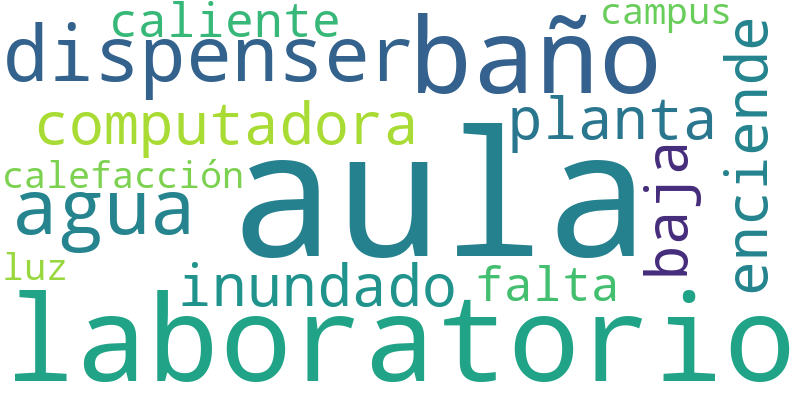
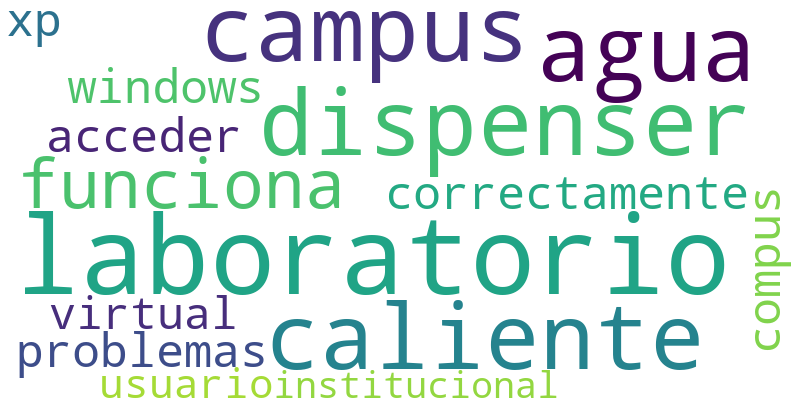
agrego chequeo de nombre de usuario al registrarse || trabajo final aprobado

diff --git a/TrabajoPractico_3/data/reporte_todos.html b/TrabajoPractico_3/data/reporte_todos.html
@@ -1,27 +1,9 @@
 <!DOCTYPE html><html lang='es'><head><meta charset='UTF-8'><title>Reporte</title><style>
-        body {
-            font-family: 'Segoe UI', sans-serif;
-            background-color: #f5f7fa;
-            color: #2c3e50;
-            padding: 40px;
-            display: flex;
-            flex-direction: column;
-            align-items: center;
-            justify-content: center;
-        }
-        h1, h2 {
-            color: #2c3e50;
-        }
-        p {
-            font-size: 1em;
-            margin-top: 20px;
-        }
-        img {
-            display: block;
-            margin: 20px auto;
-            max-width: 90%;
-            height: auto;
-            border: 1px solid #ccc;
-            box-shadow: 2px 2px 5px rgba(0,0,0,0.1);
-        }
-        </style></head><body><h1>Reporte HTML de Reclamos</h1><p><strong>Mediana de tiempos de resolución de reclamos en proceso (en días):</strong> 3</p><p><strong>Mediana de tiempos de resolución de reclamos resueltos (en días):</strong> 5</p><h2>Gráfico de reclamos por estado</h2><img src='file:///C:\Users\acapo\prog_avanzada\TrabajoPractico_3\data\grafico_torta_secretariaTecnica.png' width='500'><h2>Nube de palabras clave</h2><img src='file:///C:\Users\acapo\prog_avanzada\TrabajoPractico_3\data\grafico_nube_secretariaTecnica.png' width='500'></body></html>
+        body { font-family: 'Segoe UI', sans-serif; background-color: #f5f7fa; color: #2c3e50; padding: 40px; display: flex; flex-direction: column; align-items: center; justify-content: center; }
+        h1, h2, h3 { color: #2c3e50; }
+        p { font-size: 1em; margin-top: 20px; }
+        img { display: block; margin: 20px auto; max-width: 90%; height: auto; border: 1px solid #ccc; box-shadow: 2px 2px 5px rgba(0,0,0,0.1); }
+        table { width: 100%; border-collapse: collapse; margin-top: 20px; }
+        th, td { padding: 12px; text-align: left; border-bottom: 1px solid #ddd; }
+        th { background-color: #f2f2f2; }
+        </style></head><body><h1>Reporte HTML de Reclamos</h1><h2>Listado de Reclamos</h2><table><tr><th>ID</th><th>Estado</th><th>Descripción</th></tr><tr><td>1</td><td>resuelto</td><td>La computadora 1 del laboratorio 3 no enciende</td></tr><tr><td>4</td><td>pendiente</td><td>El aire acondicionado del aula 1 no enfría</td></tr><tr><td>6</td><td>pendiente</td><td>El dispenser del agua caliente no funciona correctamente</td></tr><tr><td>8</td><td>pendiente</td><td>El kiosco cierra temprano</td></tr><tr><td>9</td><td>pendiente</td><td>El agua del lavamanos es muy fría</td></tr><tr><td>10</td><td>pendiente</td><td>Las compus tienen windows xp</td></tr><tr><td>11</td><td>pendiente</td><td>No hay agua caliente en el dispenser</td></tr><tr><td>12</td><td>pendiente</td><td>No hay dispenser en la sala de estudio</td></tr><tr><td>13</td><td>pendiente</td><td>Falta de calefacción en el aula 10</td></tr><tr><td>14</td><td>pendiente</td><td>Problemas para acceder al campus virtual con usuario institucional</td></tr><tr><td>15</td><td>pendiente</td><td>Luz quemada en pasillo del tercer piso</td></tr><tr><td>16</td><td>en proceso</td><td>Solicito reposición de marcador y borrador en aula 3</td></tr><tr><td>17</td><td>en proceso</td><td>Mala conexión WiFi en el laboratorio de electrónica</td></tr><tr><td>18</td><td>pendiente</td><td>Ventana rota en aula 4, entra viento frío</td></tr><tr><td>19</td><td>pendiente</td><td>El tacho de basura del módulo 3 está lleno</td></tr><tr><td>22</td><td>pendiente</td><td>No hay papel higiénico en el baño de mujeres de la biblioteca</td></tr><tr><td>24</td><td>pendiente</td><td>La luz del estacionamiento titila y es medio terrorifico</td></tr><tr><td>25</td><td>inválido</td><td>La computadora 1 del laboratorio 3 no enciende</td></tr><tr><td>26</td><td>pendiente</td><td>la pagina de la facultad no me deja ver los atajos</td></tr><tr><td>27</td><td>pendiente</td><td>Problema en el campus con la carga de archivos</td></tr><tr><td>28</td><td>pendiente</td><td>falta de calefacción en el laboratorio</td></tr><tr><td>29</td><td>pendiente</td><td>El baño de la planta baja está inundado</td></tr><tr><td>34</td><td>pendiente</td><td>No andan los enchufes del aula 6</td></tr><tr><td>35</td><td>pendiente</td><td>No anda el aire acondicionado del laboratorio 3</td></tr></table><h2>Datos de Analítica</h2><p><strong>Mediana de tiempos de resolución de reclamos en proceso (en días):</strong> 4</p><p><strong>Mediana de tiempos de resolución de reclamos resueltos (en días):</strong> 5</p><h3>Gráfico de reclamos por estado</h3><img src='file:///C:\Users\acapo\prog_avanzada\TrabajoPractico_3\data\grafico_torta_secretariaTecnica.png' width='500'><h3>Nube de palabras clave</h3><img src='file:///C:\Users\acapo\prog_avanzada\TrabajoPractico_3\data\grafico_nube_secretariaTecnica.png' width='500'></body></html>

diff --git a/TrabajoPractico_3/modules/gestorUsuarios.py b/TrabajoPractico_3/modules/gestorUsuarios.py
@@ -18,7 +18,10 @@ class GestorUsuarios:
         """
         #verifico si no está registrado
         if self.__repo.obtenerRegistroFiltro("email", email):
-            raise ValueError("El usuario ya está registrado, por favor inicie sesión")
+            raise ValueError("Ya existe un usuario registrado con ese email")
+
+        if self.__repo.obtenerRegistroFiltro("nombreUsuario", nombreUsuario):
+            raise ValueError("El nombre de usuario ya está en uso. Elegí otro.")
 
         #genero la contraseña hasheada
         passEncriptada = generate_password_hash(password= password,

diff --git a/TrabajoPractico_3/modules/monticulos.py b/TrabajoPractico_3/modules/monticulos.py
@@ -97,6 +97,9 @@ class MonticuloBinario:
     def eliminarMinOMax(self):
         '''
         Elimina el elemento mínimo o máximo del montículo y lo devuelve.
+        Raises:
+            IndexError: Si el montículo está vacío.
+        
         '''
         if self.__tamanioActual == 0:
             raise IndexError("El montículo está vacío.")

diff --git a/TrabajoPractico_3/server.py b/TrabajoPractico_3/server.py
@@ -22,6 +22,7 @@ gestorReportes = GestorReportes(repoReclamo)
 
 rolesAdmin = ['secretarioTecnico', 'jefeMaestranza', 'jefeSoporteInformático']
 
+
 @app.route('/')
 def inicio():
     """
